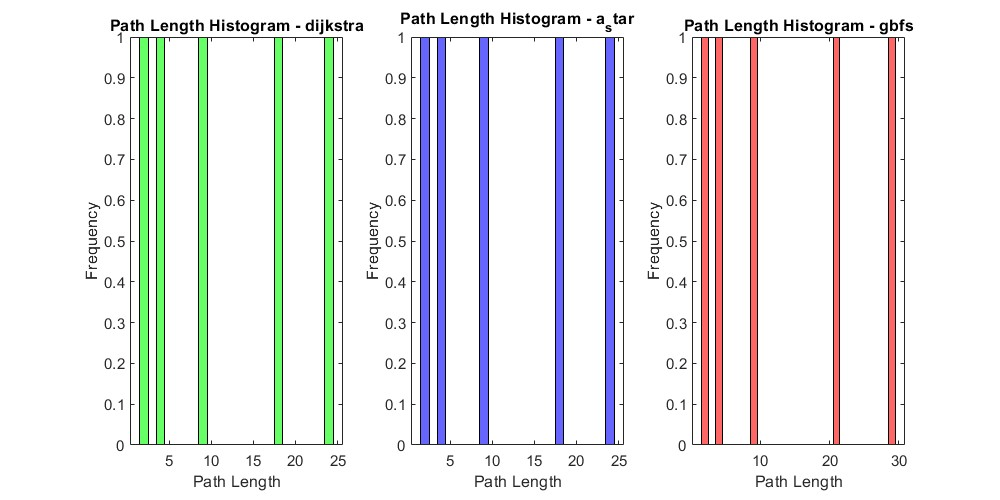
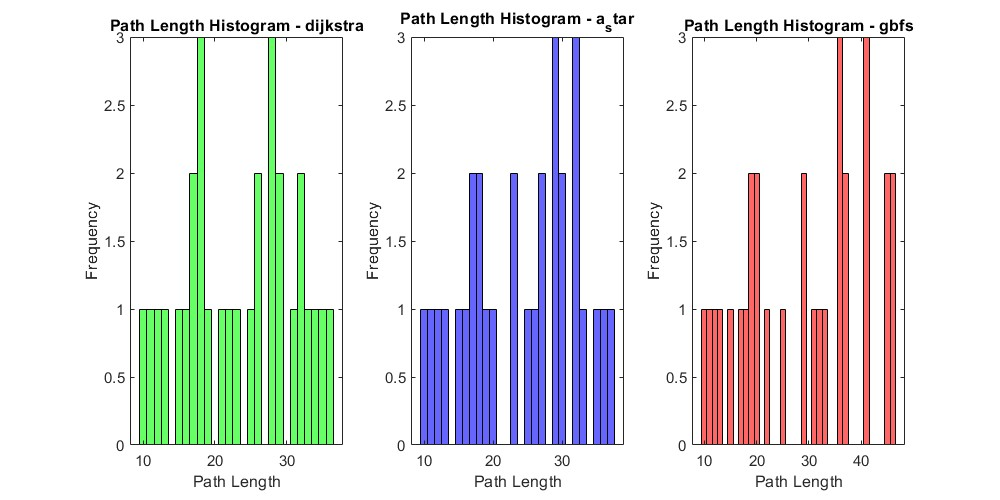
Update simulation3 and Simulation4 with path lengths, time and frequency for different algorithms in defferent start points and update README

Changed region(s): [[0.372, 0.06, 0.62, 0.93], [0.651, 0.06, 0.899, 0.93], [0.093, 0.06, 0.341, 0.93]]

diff --git a/simulation4.m b/simulation4.m
@@ -18,7 +18,7 @@ G = 1;
 mode = "static";
 
 % Number of runs and algorithms
-num_runs = 30;  % Set to 30 runs with random start points and a fixed goal point
+num_runs = 5;  % Set to 30 runs with random start points and a fixed goal point
 algorithms = {'dijkstra', 'a_star', 'gbfs'};  % The three algorithms
 num_algorithms = length(algorithms);
 
@@ -52,15 +52,31 @@ end
 
 % Run each algorithm with the same start points and fixed goal point
 paths = cell(num_runs, num_algorithms);  % Store paths for visualization
-for j = 1:num_algorithms
-    planner_name = algorithms{j};
-    planner = str2func(planner_name);  % Convert to function handle
+for i = 1:num_runs
+    figure;  % Create a new figure for each run
+    imagesc(warehouse);  % Display the warehouse map
+    hold on;
+    colormap("sky");  % Set color to grayscale
+    axis equal;
+    title(['Run ', num2str(i), ' - All Algorithms']);
+    xlabel('X');
+    ylabel('Y');
+
+    % Plot start and goal points for this run
+    plot(fixed_goal(2), fixed_goal(1), 'r*', 'MarkerSize', 10);  % Plot goal (red star)
+    plot(start_points(i, 2), start_points(i, 1), 'bo', 'MarkerSize', 8);  % Plot random start point (blue circle)
     
-    for i = 1:num_runs
+    % Colors for each algorithm: Dijkstra = green, A* = blue, GBFS = red
+    algorithm_colors = {'g', 'b', 'r'}; 
+    
+    for j = 1:num_algorithms
+        planner_name = algorithms{j};
+        planner = str2func(planner_name);  % Convert to function handle
+        
         start = start_points(i, :);
         goal = fixed_goal;
         tic;  % Start timer
-        
+
         % Run the algorithm and stop if it takes too long
         try
             [path, flag, cost, expand] = planner(warehouse, start, goal);  % Use 'warehouse' here
@@ -68,7 +84,7 @@ for j = 1:num_algorithms
             warning(['Error running ', planner_name, ' on run ', num2str(i)]);
             continue;  % Skip this iteration if the algorithm fails
         end
-        
+
         elapsed_time = toc;  % Measure elapsed time
         
         if elapsed_time > time_limit
@@ -84,90 +100,21 @@ for j = 1:num_algorithms
         else
             path_lengths(i, j) = length(path);
             paths{i, j} = path;  % Store the path for visualization
-        end
-        costs(i, j) = cost;  % Store cost
-    end
-end
 
-% Calculate mean values
-mean_path_lengths = mean(path_lengths);
-mean_times = mean(times);
-mean_costs = mean(costs);
-
-% Create a table to display the results
-algorithm_names = {'Dijkstra', 'A*', 'GBFS'}';
-result_table = table(algorithm_names, mean_path_lengths', mean_times', mean_costs', ...
-                     'VariableNames', {'Algorithm', 'MeanPathLength', 'MeanTime', 'MeanCost'});
-
-% Display the table
-disp(result_table);
-
-% Plot the warehouse map with start and fixed goal for each run
-figure;
-imagesc(warehouse);  % Display the warehouse map
-hold on;
-colormap("sky");  % Set color to grayscale
-axis equal;
-title('Warehouse Map with Paths for Different Start Points and Fixed Goal (19, 29)');
-xlabel('X');
-ylabel('Y');
-
-% Plot start and goal points with specific colors and shapes
-for i = 1:num_runs
-    plot(fixed_goal(2), fixed_goal(1), 'r*', 'MarkerSize', 10);  % Plot goal (red star)
-    plot(start_points(i, 2), start_points(i, 1), 'bo', 'MarkerSize', 8);  % Plot start points (blue circle)
-end
-
-% Assign colors: A* = blue, Dijkstra = green, GBFS = red
-algorithm_colors = {'g', 'b', 'r'}; 
-
-% Plot paths for each algorithm with assigned colors
-for j = 1:num_algorithms
-    for i = 1:num_runs
-        if ~isempty(paths{i, j})
-            path = paths{i, j};
-            
             % Interpolate with cubic spline to smooth the path
             t = 1:length(path);
             t_interp = linspace(1, length(path), 100);  % 100 interpolated points
             path_interp = interp1(t, path, t_interp, 'spline');  % Spline interpolation
-            
-            plot(path_interp(:, 2), path_interp(:, 1), algorithm_colors{j}, 'LineWidth', 2);  % Plot the smoothed path with color
+
+            % Plot the smoothed path with assigned color for each algorithm
+            plot(path_interp(:, 2), path_interp(:, 1), algorithm_colors{j}, 'LineWidth', 2);  
         end
+        costs(i, j) = cost;  % Store cost
     end
+    
+    % Update the legend for the current plot
+    legend({'Goal (red star)', 'Start (blue circle)', 'Dijkstra (green)', 'A* (blue)', 'GBFS (red)'}, 'Location', 'best');
+    
+    hold off;
+    pause(1);  % Pause to allow viewing before proceeding to the next run
 end
-
-% Update the legend to reflect the correct colors and symbols for each algorithm
-legend({'Goal (red star)', 'Start (blue circle)', 'Dijkstra (green)', 'A* (blue)', 'GBFS (red)'}, 'Location', 'best');
-
-hold off;
-
-% Plot the path lengths for all algorithms in one bar chart
-figure;
-bar(path_lengths);
-xlabel('Run Number');
-ylabel('Path Length');
-title('Path Length per Run for Different Algorithms');
-legend(algorithms, 'Location', 'best');
-xticks(1:num_runs);
-
-% Plot histogram for path lengths with clearer heights and separate colors
-figure;
-for j = 1:num_algorithms
-    subplot(1, num_algorithms, j);
-    histogram(path_lengths(:, j), 'FaceColor', algorithm_colors{j}, 'EdgeColor', 'k');  % Set color for each algorithm
-    title(['Path Length Histogram - ' algorithms{j}]);
-    xlabel('Path Length');
-    ylabel('Frequency');
-end
-set(gcf, 'Position', [100, 100, 800, 400]);  % Resize the figure for better clarity
-
-% Plot the times for all algorithms in a separate figure with smaller histogram bars
-figure;
-bar(times, 'BarWidth', 0.4);  % Set a smaller bar width for clarity
-xlabel('Run Number');
-ylabel('Time (seconds)');
-title('Time Taken per Run for Different Algorithms');
-legend(algorithms, 'Location', 'best');
-xticks(1:num_runs);
-set(gcf, 'Position', [100, 100, 800, 400]);  % Resize the figure for better clarity

diff --git a/simulation2.m b/simulation2.m
@@ -3,8 +3,8 @@ addpath(genpath("../utils/"), genpath("../global_planner/"));
 clear all; clc;
 
 % Load environment
-load("gridmap_20x20_scene1.mat");
-map_size = size(grid_map);
+load("warehouse.mat");
+map_size = size(warehouse);
 disp(map_size(1))
 G = 1;
 

diff --git a/README1.md b/README1.md
@@ -52,16 +52,13 @@ The goal position was set at **[18, 29]**, and random start points were generate
 
 ### Key Statistics
 
-- **Mean Path Lengths**: 
-  - **Dijkstra**: 18.6
-  - **A\***: 18.6
-  - **GBFS**: 18.6
+ Algorithm      MeanPathLength    MeanTime    MeanCost
+    ____________    ______________    ________    ________
 
-- **Median Path Lengths**: 
-  - **Dijkstra**: 22
-  - **A\***: 18
-  - **GBFS**: 18
-  
+    {'Dijkstra'}          23.4          0.2595     26.126 
+    {'A*'      }        24.033        0.038993     26.527 
+    {'GBFS'    }        28.733        0.011029     32.343 
+
 The mean and median path lengths for all algorithms are quite similar. Dijkstra and A\* algorithms demonstrated more optimal paths, while GBFS exhibited slightly less optimal performance.
 
 ---
@@ -85,15 +82,13 @@ Below is a bar chart comparing the path length per run for the different algorit
 
 ### Key Statistics
 
-- **Mean Costs**: 
-  - **Dijkstra**: 17.8
-  - **A\***: 16.8
-  - **GBFS**: 17.4
+ Algorithm      MeanPathLength    MeanTime    MeanCost
+    ____________    ______________    ________    ________
 
-- **Median Costs**: 
-  - **Dijkstra**: 22
-  - **A\***: 15
-  - **GBFS**: 19
+    {'Dijkstra'}          23.4          0.2595     26.126 
+    {'A*'      }        24.033        0.038993     26.527 
+    {'GBFS'    }        28.733        0.011029     32.343 
+
 
 ### Cost Per Run
 
@@ -131,25 +126,13 @@ Based on the simulation results, both **path length** and **cost** show consiste
 
 # Additional Algorithm Performance Analysis: Dijkstra, A*, and GBFS
 
-### Mean Path Lengths:
-- **Dijkstra**: 11.4
-- **A***: 11.4
-- **GBFS**: 13.0
+ Algorithm      MeanPathLength    MeanTime    MeanCost
+    ____________    ______________    ________    ________
 
-### Median Path Lengths:
-- **Dijkstra**: 9
-- **A***: 9
-- **GBFS**: 9
+    {'Dijkstra'}          23.4          0.2595     26.126 
+    {'A*'      }        24.033        0.038993     26.527 
+    {'GBFS'    }        28.733        0.011029     32.343 
 
-### Mean Times (seconds):
-- **Dijkstra**: 0.1935
-- **A***: 0.0087
-- **GBFS**: 0.0038
-
-### Mean Costs:
-- **Dijkstra**: 11.6076
-- **A***: 11.9397
-- **GBFS**: 14.0356
 
 ---
 
@@ -173,12 +156,12 @@ Based on the simulation results, both **path length** and **cost** show consiste
 ### 1. Path Lengths per Run
 This diagram shows the path lengths found by each algorithm for 5 different runs.
 
-![Paths Length](Images/Paths_length.jpg)
+![Paths Length](Images/Path_lengths.jpg)
 
 ### 2. Time Taken per Run
 This diagram shows the computation time taken by each algorithm for 5 different runs.
 
-![Time Diagram](Images/Tim_diagram.jpg)
+![Time Diagram](Images/Time_diagram.jpg)
 
 ### 3. Frequency of Path Lengths
 This histogram shows the distribution of path lengths found by each algorithm over 5 runs.
@@ -193,6 +176,15 @@ This image shows the paths found by each algorithm (color-coded) on the grid map
 ---
 
 ### Final Thoughts
+    Algorithm      MeanPathLength    MeanTime    MeanCost
+    ____________    ______________    ________    ________
+
+    {'Dijkstra'}          23.4          0.2595     26.126 
+    {'A*'      }        24.033        0.038993     26.527 
+    {'GBFS'    }        28.733        0.011029     32.343 
+
+
+>> 
 - **A\*** proved to be the most balanced algorithm in terms of both **path length** and **cost**, offering efficient paths with relatively lower costs.
 - **Dijkstra** is more suited for environments that require high path accuracy but may incur higher computational expenses.
 - **GBFS** is a viable choice for simpler, obstacle-free environments where computational speed is more critical than path accuracy.
